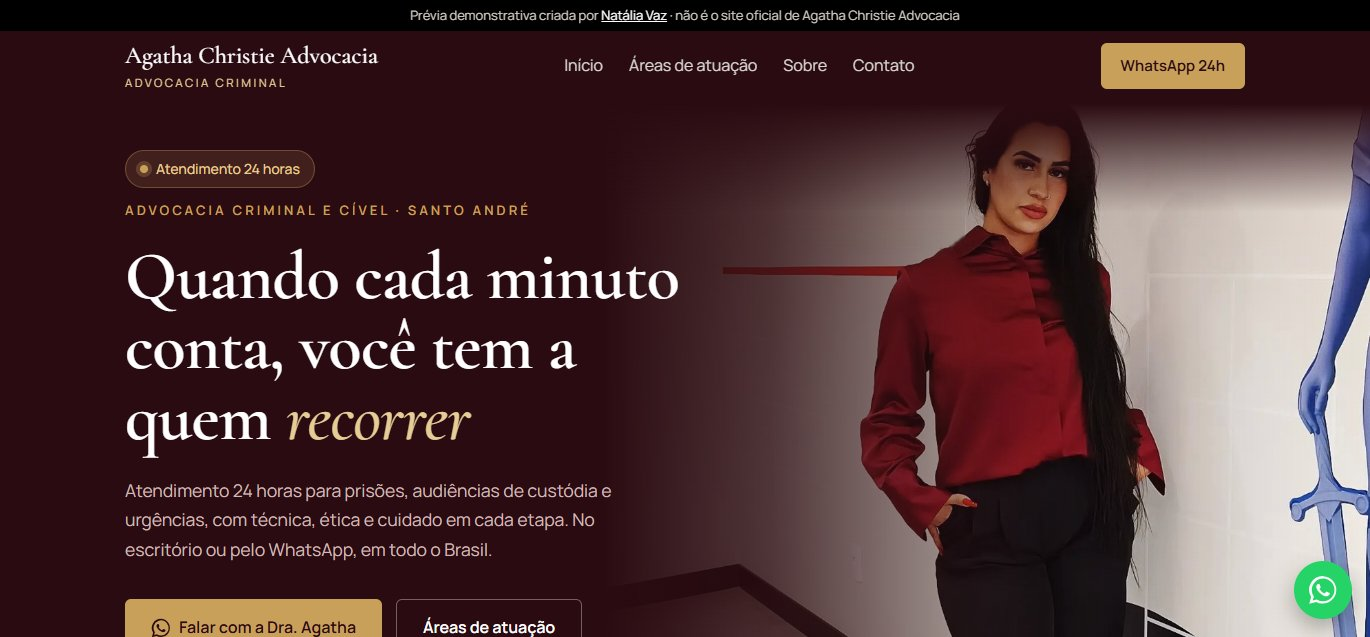
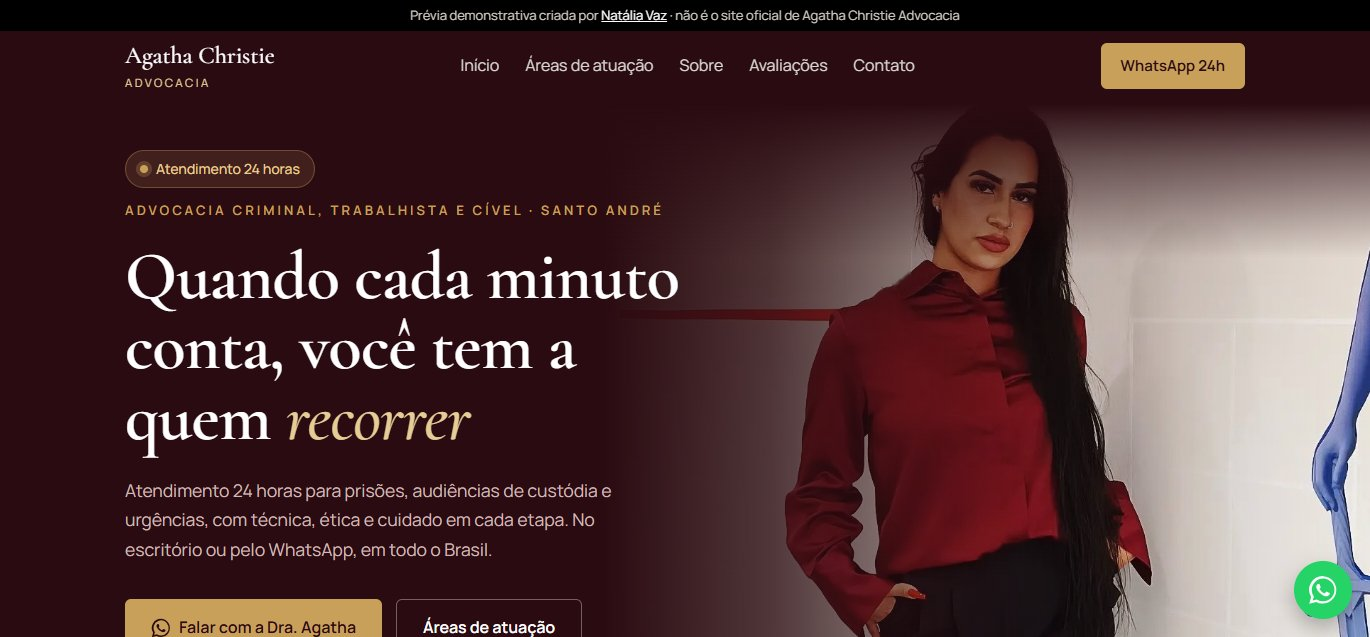
Agatha Christie: hero da cintura para cima, trabalhista no destaque, marca e avaliações simuladas

diff --git a/agatha-christie/index.html b/agatha-christie/index.html
@@ -95,8 +95,8 @@ a{color:inherit}
 /* hero (IMMERSIVE: foto sangrando à direita com degradê, modelo Alisson Oliveira) */
 .hero{position:relative;background:var(--dark);color:#efe3e1;overflow:hidden;min-height:min(92vh,860px);display:flex;align-items:center;padding:150px 0 90px}
 .hero-bg{position:absolute;top:104px;right:0;bottom:0;width:56%}
-.hero-bg img{width:100%;height:100%;object-fit:cover;object-position:60% 15%}
-.hero-bg::after{content:"";position:absolute;inset:0;background:linear-gradient(180deg,var(--dark) 0%,rgba(42,11,17,0) 14%),linear-gradient(90deg,var(--dark) 0%,rgba(42,11,17,.8) 22%,rgba(42,11,17,.18) 60%,rgba(42,11,17,0) 100%)}
+.hero-bg img{width:100%;height:100%;object-fit:cover;object-position:50% 0%}
+.hero-bg::after{content:"";position:absolute;inset:0;background:linear-gradient(180deg,var(--dark) 0%,rgba(42,11,17,.6) 7%,rgba(42,11,17,0) 20%),linear-gradient(90deg,var(--dark) 0%,rgba(42,11,17,.8) 22%,rgba(42,11,17,.18) 60%,rgba(42,11,17,0) 100%)}
 .hero .wrap{position:relative;z-index:1}
 .hero-text{max-width:600px}
 .hero h1{font-family:var(--serif);font-weight:600;color:#fff;font-size:clamp(42px,5.4vw,68px);line-height:1.04;margin:18px 0 22px;letter-spacing:-.01em}
@@ -109,8 +109,8 @@ a{color:inherit}
 @media (max-width:860px){
   .hero{display:block;min-height:0;padding:0 0 64px}
   .hero-bg{position:relative;top:0;width:100%;height:440px;margin-top:122px}
-  .hero-bg img{object-position:55% 10%}
-  .hero-bg::after{background:linear-gradient(180deg,rgba(42,11,17,0) 0%,rgba(42,11,17,0) 50%,rgba(42,11,17,.85) 82%,var(--dark) 100%)}
+  .hero-bg img{object-position:55% 0%}
+  .hero-bg::after{background:linear-gradient(180deg,var(--dark) 0%,rgba(42,11,17,0) 16%,rgba(42,11,17,0) 50%,rgba(42,11,17,.85) 82%,var(--dark) 100%)}
   .hero .wrap{margin-top:-40px}
 }
 
@@ -252,6 +252,8 @@ html{--gap-secao:clamp(64px,8vw,96px)}
 .h24 i{width:8px;height:8px;border-radius:50%;background:var(--accent);box-shadow:0 0 0 4px color-mix(in srgb,var(--accent) 25%,transparent)}
 h2,h3{font-weight:600}
 
+.simul{max-width:560px;margin:0 auto;text-align:center;font-size:15px;line-height:1.5;color:var(--muted);border:1px dashed var(--accent);border-radius:8px;padding:12px 18px}
+.simul b{display:block;color:var(--brand);font-size:13px;letter-spacing:.14em;text-transform:uppercase;margin-bottom:2px}
 </style>
 </head>
 <body>
@@ -298,12 +300,13 @@ h2,h3{font-weight:600}
 <nav class="nav" id="nav">
   <div class="demo-bar">Prévia demonstrativa criada por <a href="https://eunataliavaz-sys.github.io/sites-prospeccao/natalia-vaz/" target="_blank" rel="noopener">Natália Vaz</a> · não é o site oficial de Agatha Christie Advocacia</div>
   <div class="wrap">
-    <a href="#inicio" class="brand"><b>Agatha Christie Advocacia</b><small>Advocacia criminal</small></a>
+    <a href="#inicio" class="brand"><b>Agatha Christie</b><small>Advocacia</small></a>
     <!-- Menu: um link para CADA seção que existir na página -->
     <ul id="menu">
       <li><a href="#inicio">Início</a></li>
       <li><a href="#servicos">Áreas de atuação</a></li>
       <li><a href="#sobre">Sobre</a></li>
+      <li><a href="#avaliacoes">Avaliações</a></li>
       <li><a href="#contato">Contato</a></li>
     </ul>
     <div class="nav-right">
@@ -320,7 +323,7 @@ h2,h3{font-weight:600}
   <div class="wrap">
     <div class="hero-text reveal">
       <span class="h24"><i></i>Atendimento 24 horas</span><br>
-      <span class="kicker">Advocacia criminal e cível · Santo André</span>
+      <span class="kicker">Advocacia criminal, trabalhista e cível · Santo André</span>
       <h1>Quando cada minuto conta, você tem a quem <i>recorrer</i></h1>
       <p>Atendimento 24 horas para prisões, audiências de custódia e urgências, com técnica, ética e cuidado em cada etapa. No escritório ou pelo WhatsApp, em todo o Brasil.</p>
       <div class="ctas">
@@ -329,8 +332,8 @@ h2,h3{font-weight:600}
       </div>
       <div class="facts">
         <div><b>24<span>h</span></b>de atendimento</div>
-        <div><b>9</b>áreas de atuação</div>
-        <div><b>Todo o Brasil</b>atendimento</div>
+        <div><b>Online</b>atendimento</div>
+        <div><b>Todo o Brasil</b>atuação</div>
       </div>
     </div>
   </div>
@@ -341,7 +344,7 @@ h2,h3{font-weight:600}
     <div class="head reveal">
       <span class="kicker">Serviços</span>
       <h2>Como posso ajudar</h2>
-      <p>Atuação dedicada ao Direito Criminal, com atendimento também nas áreas cível, trabalhista, de família, previdenciária, tributária e imobiliária.</p>
+      <p>Atuação dedicada principalmente ao Direito Criminal, Trabalhista e Cível, com atendimento também nas áreas de família, previdenciária, tributária e imobiliária.</p>
     </div>
     <div class="services">
       <article class="card reveal">
@@ -355,14 +358,14 @@ h2,h3{font-weight:600}
         <p>Orientação sobre verbas rescisórias, horas extras, vínculo de emprego e outros direitos do trabalhador.</p>
       </article>
       <article class="card reveal">
-        <span class="ico"><svg class="ic" aria-hidden="true"><use href="#i-file"/></svg></span>
-        <h3>Assessoria jurídica</h3>
-        <p>Acompanhamento preventivo e análise de contratos e documentos antes de você assinar.</p>
-      </article>
-      <article class="card reveal">
         <span class="ico"><svg class="ic" aria-hidden="true"><use href="#i-scale"/></svg></span>
         <h3>Direito Cível</h3>
         <p>Cobranças, indenizações, contratos e questões do dia a dia que pedem uma solução jurídica.</p>
+      </article>
+      <article class="card reveal">
+        <span class="ico"><svg class="ic" aria-hidden="true"><use href="#i-file"/></svg></span>
+        <h3>Assessoria jurídica</h3>
+        <p>Acompanhamento preventivo e análise de contratos e documentos antes de você assinar.</p>
       </article>
       <article class="card reveal">
         <span class="ico"><svg class="ic" aria-hidden="true"><use href="#i-heart"/></svg></span>
@@ -407,10 +410,56 @@ h2,h3{font-weight:600}
       <h2>Técnica e cuidado, a qualquer hora</h2>
     </div>
     <div class="about-body reveal">
-      <p>Agatha Christie é advogada em Santo André, com atuação dedicada ao Direito Criminal e atendimento também nas áreas cível, trabalhista, de família, previdenciária, tributária e imobiliária, em todo o Brasil.</p>
+      <p>Agatha Christie é advogada em Santo André, com atuação dedicada principalmente ao Direito Criminal, Trabalhista e Cível, e atendimento também nas áreas de família, previdenciária, tributária e imobiliária, presencial ou online, em todo o Brasil.</p>
       <p>Na advocacia criminal, sabe que cada detalhe importa desde a audiência de custódia, a primeira conversa com o juiz. Por isso o atendimento é 24 horas: quem está preso também tem direitos, e um acompanhamento próximo faz diferença em cada etapa do processo.</p>
       <blockquote>“A Justiça só é justa quando alguém se dispõe a lutar por ela, com técnica e com cuidado.”</blockquote>
       <a class="btn" href="https://wa.me/5511925930061?text=Ol%C3%A1%2C%20Dra.%20Agatha%21%20Vi%20o%20seu%20site%20e%20gostaria%20de%20uma%20orienta%C3%A7%C3%A3o%20sobre%20o%20meu%20caso." target="_blank" rel="noopener">Falar com a Dra. Agatha</a>
+    </div>
+  </div>
+</section>
+
+<section class="section" id="avaliacoes">
+  <div class="wrap">
+    <div class="head center reveal">
+      <span class="kicker">Avaliações</span>
+      <h2>O que dizem os clientes</h2>
+    </div>
+    <div class="score reveal">
+      <div class="simul"><b>Simulação</b>Avaliações fictícias, só para mostrar como ficam aqui as avaliações reais do seu perfil no Google.</div>
+    </div>
+    <div class="carousel reveal" aria-roledescription="carrossel" aria-label="Avaliações no Google">
+      <div class="track" id="track">
+        <figure class="review">
+          <div class="stars">★★★★★</div>
+          <p>Fui atendida de madrugada, num momento de muito desespero na família. A Dra. Agatha explicou cada passo com calma e esteve presente o tempo todo.</p>
+          <footer><svg class="g" viewBox="0 0 24 24" aria-hidden="true"><path fill="#4285F4" d="M22.6 12.2c0-.8-.1-1.5-.2-2.2H12v4.2h6a5.1 5.1 0 0 1-2.2 3.4v2.8h3.6c2.1-1.9 3.2-4.8 3.2-8.2z"/><path fill="#34A853" d="M12 23c3 0 5.5-1 7.4-2.7l-3.6-2.8c-1 .7-2.3 1.1-3.8 1.1-2.9 0-5.4-2-6.3-4.7H2v2.9A11 11 0 0 0 12 23z"/><path fill="#FBBC05" d="M5.7 13.9a6.6 6.6 0 0 1 0-4.2V6.8H2a11 11 0 0 0 0 9.9l3.7-2.8z"/><path fill="#EA4335" d="M12 5.4c1.6 0 3.1.6 4.3 1.7l3.2-3.2A11 11 0 0 0 2 6.8l3.7 2.9C6.6 7.4 9.1 5.4 12 5.4z"/></svg><div>Mariana S.<small>Avaliação fictícia (exemplo)</small></div></footer>
+        </figure>
+        <figure class="review">
+          <div class="stars">★★★★★</div>
+          <p>Me orientou sobre os meus direitos trabalhistas com muita clareza e paciência. Sempre respondeu rápido pelo WhatsApp e me manteve informado do andamento.</p>
+          <footer><svg class="g" viewBox="0 0 24 24" aria-hidden="true"><path fill="#4285F4" d="M22.6 12.2c0-.8-.1-1.5-.2-2.2H12v4.2h6a5.1 5.1 0 0 1-2.2 3.4v2.8h3.6c2.1-1.9 3.2-4.8 3.2-8.2z"/><path fill="#34A853" d="M12 23c3 0 5.5-1 7.4-2.7l-3.6-2.8c-1 .7-2.3 1.1-3.8 1.1-2.9 0-5.4-2-6.3-4.7H2v2.9A11 11 0 0 0 12 23z"/><path fill="#FBBC05" d="M5.7 13.9a6.6 6.6 0 0 1 0-4.2V6.8H2a11 11 0 0 0 0 9.9l3.7-2.8z"/><path fill="#EA4335" d="M12 5.4c1.6 0 3.1.6 4.3 1.7l3.2-3.2A11 11 0 0 0 2 6.8l3.7 2.9C6.6 7.4 9.1 5.4 12 5.4z"/></svg><div>Ricardo A.<small>Avaliação fictícia (exemplo)</small></div></footer>
+        </figure>
+        <figure class="review">
+          <div class="stars">★★★★★</div>
+          <p>Profissional ética, atenciosa e muito dedicada. Explicou tudo sem complicar e me passou segurança desde a primeira conversa.</p>
+          <footer><svg class="g" viewBox="0 0 24 24" aria-hidden="true"><path fill="#4285F4" d="M22.6 12.2c0-.8-.1-1.5-.2-2.2H12v4.2h6a5.1 5.1 0 0 1-2.2 3.4v2.8h3.6c2.1-1.9 3.2-4.8 3.2-8.2z"/><path fill="#34A853" d="M12 23c3 0 5.5-1 7.4-2.7l-3.6-2.8c-1 .7-2.3 1.1-3.8 1.1-2.9 0-5.4-2-6.3-4.7H2v2.9A11 11 0 0 0 12 23z"/><path fill="#FBBC05" d="M5.7 13.9a6.6 6.6 0 0 1 0-4.2V6.8H2a11 11 0 0 0 0 9.9l3.7-2.8z"/><path fill="#EA4335" d="M12 5.4c1.6 0 3.1.6 4.3 1.7l3.2-3.2A11 11 0 0 0 2 6.8l3.7 2.9C6.6 7.4 9.1 5.4 12 5.4z"/></svg><div>Juliana P.<small>Avaliação fictícia (exemplo)</small></div></footer>
+        </figure>
+        <figure class="review">
+          <div class="stars">★★★★★</div>
+          <p>Atendimento online excelente, mesmo morando em outra cidade. Organizada, transparente e sempre disponível para tirar dúvidas.</p>
+          <footer><svg class="g" viewBox="0 0 24 24" aria-hidden="true"><path fill="#4285F4" d="M22.6 12.2c0-.8-.1-1.5-.2-2.2H12v4.2h6a5.1 5.1 0 0 1-2.2 3.4v2.8h3.6c2.1-1.9 3.2-4.8 3.2-8.2z"/><path fill="#34A853" d="M12 23c3 0 5.5-1 7.4-2.7l-3.6-2.8c-1 .7-2.3 1.1-3.8 1.1-2.9 0-5.4-2-6.3-4.7H2v2.9A11 11 0 0 0 12 23z"/><path fill="#FBBC05" d="M5.7 13.9a6.6 6.6 0 0 1 0-4.2V6.8H2a11 11 0 0 0 0 9.9l3.7-2.8z"/><path fill="#EA4335" d="M12 5.4c1.6 0 3.1.6 4.3 1.7l3.2-3.2A11 11 0 0 0 2 6.8l3.7 2.9C6.6 7.4 9.1 5.4 12 5.4z"/></svg><div>Carlos H.<small>Avaliação fictícia (exemplo)</small></div></footer>
+        </figure>
+        <figure class="review">
+          <div class="stars">★★★★★</div>
+          <p>Me ajudou numa questão cível que eu achava sem solução. Atendimento humano, com respeito e cuidado em cada detalhe.</p>
+          <footer><svg class="g" viewBox="0 0 24 24" aria-hidden="true"><path fill="#4285F4" d="M22.6 12.2c0-.8-.1-1.5-.2-2.2H12v4.2h6a5.1 5.1 0 0 1-2.2 3.4v2.8h3.6c2.1-1.9 3.2-4.8 3.2-8.2z"/><path fill="#34A853" d="M12 23c3 0 5.5-1 7.4-2.7l-3.6-2.8c-1 .7-2.3 1.1-3.8 1.1-2.9 0-5.4-2-6.3-4.7H2v2.9A11 11 0 0 0 12 23z"/><path fill="#FBBC05" d="M5.7 13.9a6.6 6.6 0 0 1 0-4.2V6.8H2a11 11 0 0 0 0 9.9l3.7-2.8z"/><path fill="#EA4335" d="M12 5.4c1.6 0 3.1.6 4.3 1.7l3.2-3.2A11 11 0 0 0 2 6.8l3.7 2.9C6.6 7.4 9.1 5.4 12 5.4z"/></svg><div>Fernanda L.<small>Avaliação fictícia (exemplo)</small></div></footer>
+        </figure>
+      </div>
+      <div class="car-ctrl">
+        <button class="car-btn" id="prev" aria-label="Avaliação anterior">‹</button>
+        <div class="dots" id="dots"></div>
+        <button class="car-btn" id="next" aria-label="Próxima avaliação">›</button>
+      </div>
     </div>
   </div>
 </section>
